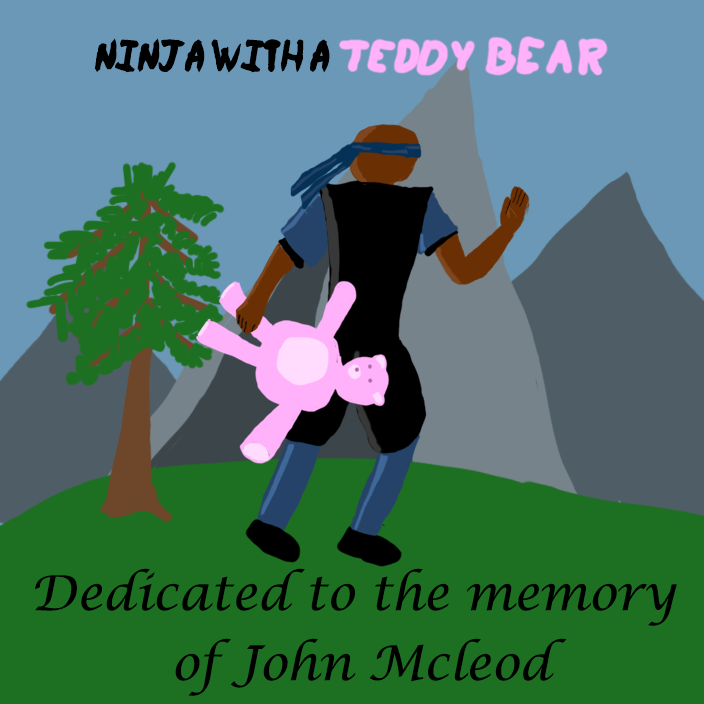
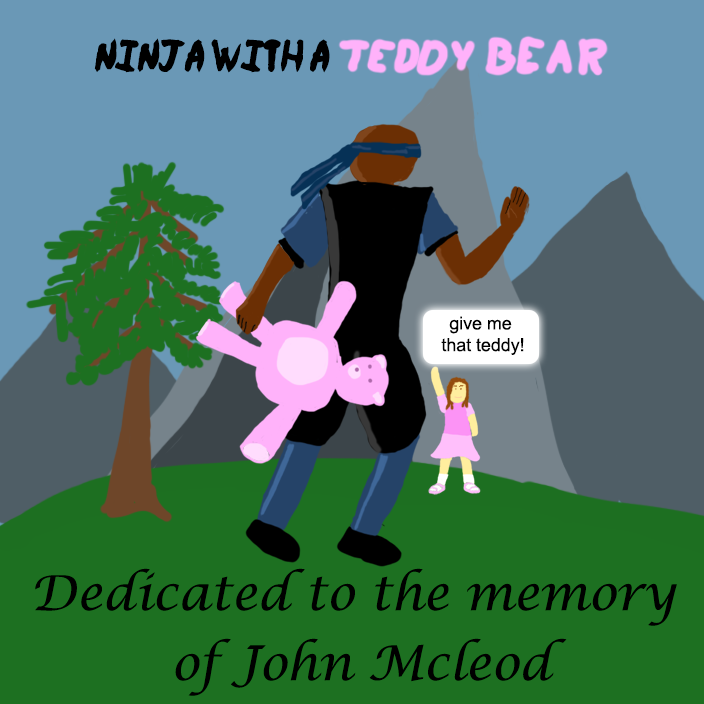
dialogues implemented

Changed region(s): [[0.5938, 0.4062, 0.7812, 0.7188], [0.5938, 0.6875, 0.625, 0.7188]]

diff --git a/core/src/com/agmcleod/nwt/GameScreen.java b/core/src/com/agmcleod/nwt/GameScreen.java
@@ -22,6 +22,8 @@ import java.util.Iterator;
  * Created by aaronmcleod on 15-04-17.
  */
 public class GameScreen implements InputProcessor, Screen {
+    private final float MAX_DIALOGUE_TIMER = 2f;
+
     private Sound attackSound;
     private float attackTimer;
     private Texture backgroundTexture;
@@ -42,6 +44,8 @@ public class GameScreen implements InputProcessor, Screen {
     private ShapeRenderer shapeRenderer;
     private Sound shockSound;
     private float spawnTimeCounter;
+    private Texture startDialogue;
+    private float startDialogueTimer;
     private Stun stun;
     private boolean restartNextFrame;
     private int round;
@@ -194,6 +198,7 @@ public class GameScreen implements InputProcessor, Screen {
         stun.dispose();
         attackSound.dispose();
         shockSound.dispose();
+        startDialogue.dispose();
     }
 
     public BossRound getBossRound() {
@@ -235,6 +240,11 @@ public class GameScreen implements InputProcessor, Screen {
         }
 
         player.render(batch);
+
+        if (startDialogueTimer < MAX_DIALOGUE_TIMER) {
+            batch.draw(startDialogue, Gdx.graphics.getWidth() / 2 - startDialogue.getWidth() / 2, 500);
+        }
+
         if (stun != null) {
             stun.render(batch);
         }
@@ -294,6 +304,7 @@ public class GameScreen implements InputProcessor, Screen {
             add(new Bounds(Gdx.graphics.getWidth(), 0, 64, Gdx.graphics.getHeight()));
             add(new Bounds(0, -64, Gdx.graphics.getWidth(), 64));
         }};
+        startDialogue = new Texture("startdialogue.png");
         font = new BitmapFont(Gdx.files.internal("font.fnt"), Gdx.files.internal("font.png"), false);
         uiFont = new BitmapFont(Gdx.files.internal("white-ui.fnt"), Gdx.files.internal("white-ui.png"), false);
         spawnTimeCounter = 0;
@@ -316,6 +327,10 @@ public class GameScreen implements InputProcessor, Screen {
         bossRound = new BossRound(this);
         if (cg.bossRoundStarted) {
             bossRound.startBossRound();
+            startDialogueTimer = MAX_DIALOGUE_TIMER;
+        }
+        else {
+            startDialogueTimer = 0f;
         }
         Gdx.input.setInputProcessor(this);
 
@@ -388,6 +403,7 @@ public class GameScreen implements InputProcessor, Screen {
 
     public void update(float dt) {
         spawnTimeCounter += dt;
+        startDialogueTimer += dt;
         if (restartNextFrame) {
             fadeMode = CoreGame.FadeMode.FADE_OUT;
             fade = true;

diff --git a/core/src/com/agmcleod/nwt/BossRound.java b/core/src/com/agmcleod/nwt/BossRound.java
@@ -1,6 +1,7 @@
 package com.agmcleod.nwt;
 
 import com.badlogic.gdx.Gdx;
+import com.badlogic.gdx.graphics.Texture;
 import com.badlogic.gdx.graphics.g2d.BitmapFont;
 import com.badlogic.gdx.graphics.g2d.SpriteBatch;
 import com.badlogic.gdx.math.Intersector;
@@ -13,8 +14,9 @@ public class BossRound {
     private Bear bear;
     private GirlBoss boss;
     private boolean bossDefeated;
+    private Texture dialogue1;
+    private Texture dialogue2;
     private GameScreen gs;
-    private BitmapFont speechFont;
     private float speechTimeout;
     private float winTimeout = 0;
     private boolean started;
@@ -23,15 +25,17 @@ public class BossRound {
         this.gs = gs;
         started = false;
         boss = new GirlBoss(this);
-        speechFont = new BitmapFont(Gdx.files.internal("blackspeech.fnt"), Gdx.files.internal("blackspeech.png"), false);
         speechTimeout = 0f;
         bear = null;
         bossDefeated = false;
+        dialogue1 = new Texture("bossleveld1.png");
+        dialogue2 = new Texture("bossleveld2.png");
     }
 
     public void dispose() {
         boss.dispose();
-        speechFont.dispose();
+        dialogue1.dispose();
+        dialogue2.dispose();
     }
 
     public boolean engaged() {
@@ -61,11 +65,10 @@ public class BossRound {
     public void render(SpriteBatch batch) {
         boss.render(batch);
         if (!engaged()) {
-            speechFont.draw(batch, "Give me that bear!", boss.position.x - 100, boss.position.y + boss.height - 20);
+            batch.draw(dialogue1, Gdx.graphics.getWidth() / 2 - dialogue2.getWidth() / 2, 500);
         }
         if (bossDefeated) {
-            speechFont.draw(batch, "No! You have", boss.position.x - 100, boss.position.y + boss.height - 20);
-            speechFont.draw(batch, "beat me!", boss.position.x - 100, boss.position.y + boss.height - 40);
+            batch.draw(dialogue2, Gdx.graphics.getWidth() / 2 - dialogue2.getWidth() / 2, 500);
         }
 
         if (bear != null && bear.isAlive()) {

diff --git a/core/src/com/agmcleod/nwt/GirlBoss.java b/core/src/com/agmcleod/nwt/GirlBoss.java
@@ -97,6 +97,7 @@ public class GirlBoss extends GameEntity {
         if (hasBear) {
             return;
         }
+        currentFrame = currentAnimation.getKeyFrame(stateTime, true);
         Bounds b = getWorldBounds();
 
         if (b.x != target.x || b.y != target.y) {
